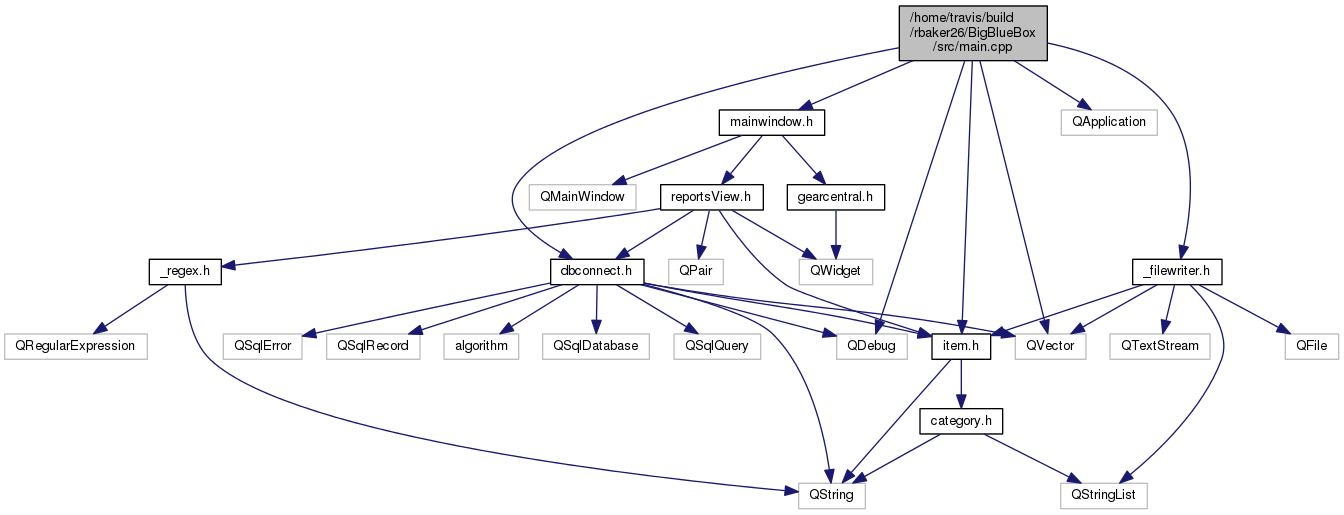
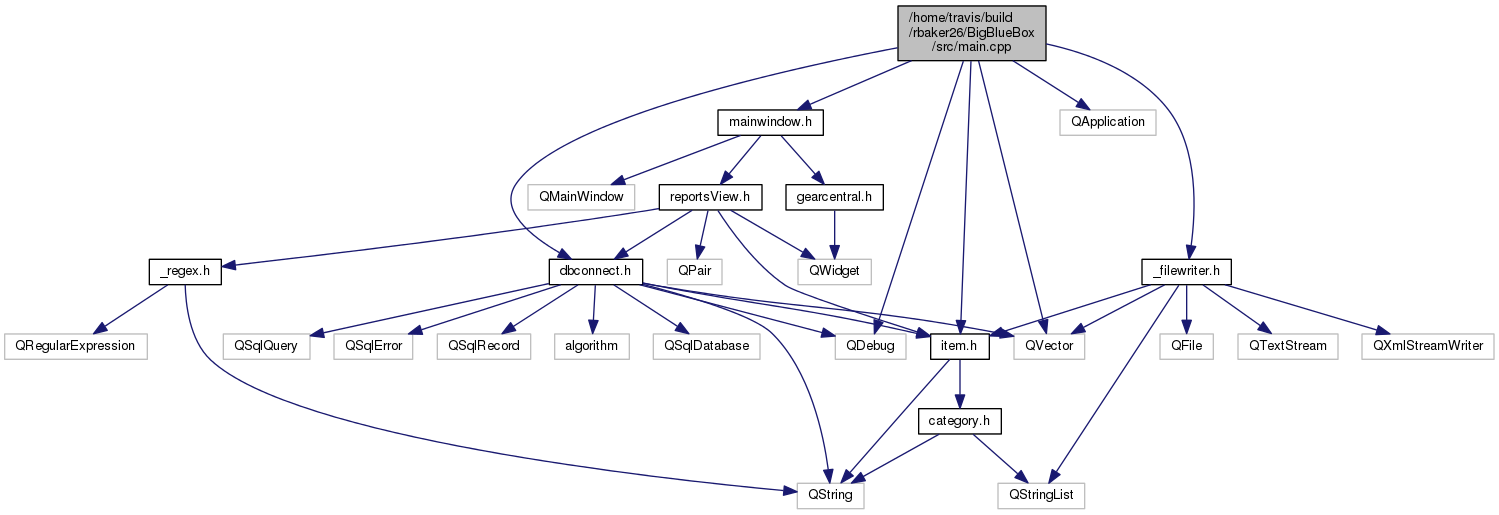
Deploy code docs to GitHub Pages Travis build: 181
Commit: 5a73ae498d2071d8c8e01dafab7c20ce1060be10

diff --git a/html/__filewriter_8h_source.html b/html/__filewriter_8h_source.html
@@ -94,51 +94,52 @@ var searchBox = new SearchBox("searchBox", "search",false,'Search');
 <div class="line"><a name="l00003"></a><span class="lineno">    3</span>&#160;<span class="preprocessor"></span><span class="comment">//*************************************************************************************</span></div>
 <div class="line"><a name="l00004"></a><span class="lineno">    4</span>&#160;<span class="preprocessor">#include &lt;QFile&gt;</span></div>
 <div class="line"><a name="l00005"></a><span class="lineno">    5</span>&#160;<span class="preprocessor">#include &lt;QTextStream&gt;</span></div>
-<div class="line"><a name="l00006"></a><span class="lineno">    6</span>&#160;</div>
-<div class="line"><a name="l00007"></a><span class="lineno">    7</span>&#160;<span class="preprocessor">#include &lt;QVector&gt;</span></div>
-<div class="line"><a name="l00008"></a><span class="lineno">    8</span>&#160;<span class="preprocessor">#include &lt;QStringList&gt;</span></div>
-<div class="line"><a name="l00009"></a><span class="lineno">    9</span>&#160;</div>
-<div class="line"><a name="l00010"></a><span class="lineno">   10</span>&#160;<span class="preprocessor">#include &quot;<a class="code" href="item_8h.html">item.h</a>&quot;</span></div>
-<div class="line"><a name="l00011"></a><span class="lineno">   11</span>&#160;<span class="comment">//*************************************************************************************</span></div>
-<div class="line"><a name="l00012"></a><span class="lineno">   12</span>&#160;</div>
+<div class="line"><a name="l00006"></a><span class="lineno">    6</span>&#160;<span class="preprocessor">#include &lt;QXmlStreamWriter&gt;</span></div>
+<div class="line"><a name="l00007"></a><span class="lineno">    7</span>&#160;</div>
+<div class="line"><a name="l00008"></a><span class="lineno">    8</span>&#160;<span class="preprocessor">#include &lt;QVector&gt;</span></div>
+<div class="line"><a name="l00009"></a><span class="lineno">    9</span>&#160;<span class="preprocessor">#include &lt;QStringList&gt;</span></div>
+<div class="line"><a name="l00010"></a><span class="lineno">   10</span>&#160;</div>
+<div class="line"><a name="l00011"></a><span class="lineno">   11</span>&#160;<span class="preprocessor">#include &quot;<a class="code" href="item_8h.html">item.h</a>&quot;</span></div>
+<div class="line"><a name="l00012"></a><span class="lineno">   12</span>&#160;<span class="comment">//*************************************************************************************</span></div>
 <div class="line"><a name="l00013"></a><span class="lineno">   13</span>&#160;</div>
-<div class="line"><a name="l00014"></a><span class="lineno"><a class="line" href="namespacebbb.html">   14</a></span>&#160;<span class="keyword">namespace </span>bbb {</div>
-<div class="line"><a name="l00015"></a><span class="lineno">   15</span>&#160;<span class="comment">//*********************************************************************************</span></div>
-<div class="line"><a name="l00021"></a><span class="lineno">   21</span>&#160;<span class="comment"></span><span class="comment">//*********************************************************************************</span></div>
-<div class="line"><a name="l00022"></a><span class="lineno"><a class="line" href="classbbb_1_1___file_writer.html">   22</a></span>&#160;<span class="keyword">class </span><a class="code" href="classbbb_1_1___file_writer.html">_FileWriter</a></div>
-<div class="line"><a name="l00023"></a><span class="lineno">   23</span>&#160;{</div>
-<div class="line"><a name="l00024"></a><span class="lineno">   24</span>&#160;<span class="keyword">private</span>:</div>
-<div class="line"><a name="l00025"></a><span class="lineno">   25</span>&#160;    <span class="comment">//**********************************************************</span></div>
-<div class="line"><a name="l00028"></a><span class="lineno">   28</span>&#160;<span class="comment"></span>    <a class="code" href="classbbb_1_1___file_writer.html#abfb28b4697018a402c6e70afe8cc0320">_FileWriter</a>();</div>
-<div class="line"><a name="l00029"></a><span class="lineno">   29</span>&#160;    <span class="comment">//**********************************************************</span></div>
-<div class="line"><a name="l00030"></a><span class="lineno">   30</span>&#160;</div>
-<div class="line"><a name="l00031"></a><span class="lineno">   31</span>&#160;    <span class="comment">//**********************************************************</span></div>
-<div class="line"><a name="l00033"></a><span class="lineno"><a class="line" href="classbbb_1_1___file_writer.html#ae08e07bb9731330e110629a64eb409e1">   33</a></span>&#160;<span class="comment"></span>    <span class="keyword">static</span> <a class="code" href="classbbb_1_1___file_writer.html">_FileWriter</a>* <a class="code" href="classbbb_1_1___file_writer.html#ae08e07bb9731330e110629a64eb409e1">instance</a>;</div>
-<div class="line"><a name="l00034"></a><span class="lineno">   34</span>&#160;    <span class="comment">//**********************************************************</span></div>
-<div class="line"><a name="l00035"></a><span class="lineno">   35</span>&#160;</div>
-<div class="line"><a name="l00036"></a><span class="lineno">   36</span>&#160;<span class="keyword">public</span>:</div>
-<div class="line"><a name="l00037"></a><span class="lineno">   37</span>&#160;    <span class="comment">//**********************************************************</span></div>
-<div class="line"><a name="l00041"></a><span class="lineno">   41</span>&#160;<span class="comment"></span>    <a class="code" href="classbbb_1_1___file_writer.html#a68306142a8735b0ab3aed6716631d639">~_FileWriter</a>();</div>
-<div class="line"><a name="l00042"></a><span class="lineno">   42</span>&#160;    <span class="comment">//**********************************************************</span></div>
-<div class="line"><a name="l00043"></a><span class="lineno">   43</span>&#160;</div>
-<div class="line"><a name="l00044"></a><span class="lineno">   44</span>&#160;    <span class="comment">//**********************************************************</span></div>
-<div class="line"><a name="l00048"></a><span class="lineno">   48</span>&#160;<span class="comment"></span>    <span class="keyword">static</span> <a class="code" href="classbbb_1_1___file_writer.html">_FileWriter</a>* <a class="code" href="classbbb_1_1___file_writer.html#a65f1d3f6b273766d8b224b330de66ffa">getInstance</a>();</div>
-<div class="line"><a name="l00049"></a><span class="lineno">   49</span>&#160;    <span class="comment">//**********************************************************</span></div>
-<div class="line"><a name="l00050"></a><span class="lineno">   50</span>&#160;</div>
-<div class="line"><a name="l00051"></a><span class="lineno">   51</span>&#160;    <span class="comment">//**********************************************************</span></div>
-<div class="line"><a name="l00056"></a><span class="lineno">   56</span>&#160;<span class="comment"></span>    <span class="comment">// every option should also have a output to .csv option as well</span></div>
-<div class="line"><a name="l00057"></a><span class="lineno">   57</span>&#160;    <span class="comment">// can be controled via combo box dropdown in reports veiw.</span></div>
-<div class="line"><a name="l00058"></a><span class="lineno">   58</span>&#160;     <span class="keywordtype">void</span> <a class="code" href="classbbb_1_1___file_writer.html#acee5ce66444735f37990f57afbfe1452">makeReport</a>(QVector&lt;Item&gt; inventory);</div>
-<div class="line"><a name="l00059"></a><span class="lineno">   59</span>&#160;     <span class="comment">//**********************************************************</span></div>
-<div class="line"><a name="l00060"></a><span class="lineno">   60</span>&#160;</div>
-<div class="line"><a name="l00061"></a><span class="lineno">   61</span>&#160;}; <span class="comment">// end class</span></div>
-<div class="line"><a name="l00062"></a><span class="lineno">   62</span>&#160;<span class="comment">//*********************************************************************************</span></div>
-<div class="line"><a name="l00063"></a><span class="lineno">   63</span>&#160;} <span class="comment">// end namespace</span></div>
-<div class="line"><a name="l00064"></a><span class="lineno">   64</span>&#160;</div>
+<div class="line"><a name="l00014"></a><span class="lineno">   14</span>&#160;</div>
+<div class="line"><a name="l00015"></a><span class="lineno"><a class="line" href="namespacebbb.html">   15</a></span>&#160;<span class="keyword">namespace </span>bbb {</div>
+<div class="line"><a name="l00016"></a><span class="lineno">   16</span>&#160;<span class="comment">//*********************************************************************************</span></div>
+<div class="line"><a name="l00022"></a><span class="lineno">   22</span>&#160;<span class="comment"></span><span class="comment">//*********************************************************************************</span></div>
+<div class="line"><a name="l00023"></a><span class="lineno"><a class="line" href="classbbb_1_1___file_writer.html">   23</a></span>&#160;<span class="keyword">class </span><a class="code" href="classbbb_1_1___file_writer.html">_FileWriter</a></div>
+<div class="line"><a name="l00024"></a><span class="lineno">   24</span>&#160;{</div>
+<div class="line"><a name="l00025"></a><span class="lineno">   25</span>&#160;<span class="keyword">private</span>:</div>
+<div class="line"><a name="l00026"></a><span class="lineno">   26</span>&#160;    <span class="comment">//**********************************************************</span></div>
+<div class="line"><a name="l00029"></a><span class="lineno">   29</span>&#160;<span class="comment"></span>    <a class="code" href="classbbb_1_1___file_writer.html#abfb28b4697018a402c6e70afe8cc0320">_FileWriter</a>();</div>
+<div class="line"><a name="l00030"></a><span class="lineno">   30</span>&#160;    <span class="comment">//**********************************************************</span></div>
+<div class="line"><a name="l00031"></a><span class="lineno">   31</span>&#160;</div>
+<div class="line"><a name="l00032"></a><span class="lineno">   32</span>&#160;    <span class="comment">//**********************************************************</span></div>
+<div class="line"><a name="l00034"></a><span class="lineno"><a class="line" href="classbbb_1_1___file_writer.html#ae08e07bb9731330e110629a64eb409e1">   34</a></span>&#160;<span class="comment"></span>    <span class="keyword">static</span> <a class="code" href="classbbb_1_1___file_writer.html">_FileWriter</a>* <a class="code" href="classbbb_1_1___file_writer.html#ae08e07bb9731330e110629a64eb409e1">instance</a>;</div>
+<div class="line"><a name="l00035"></a><span class="lineno">   35</span>&#160;    <span class="comment">//**********************************************************</span></div>
+<div class="line"><a name="l00036"></a><span class="lineno">   36</span>&#160;</div>
+<div class="line"><a name="l00037"></a><span class="lineno">   37</span>&#160;<span class="keyword">public</span>:</div>
+<div class="line"><a name="l00038"></a><span class="lineno">   38</span>&#160;    <span class="comment">//**********************************************************</span></div>
+<div class="line"><a name="l00042"></a><span class="lineno">   42</span>&#160;<span class="comment"></span>    <a class="code" href="classbbb_1_1___file_writer.html#a68306142a8735b0ab3aed6716631d639">~_FileWriter</a>();</div>
+<div class="line"><a name="l00043"></a><span class="lineno">   43</span>&#160;    <span class="comment">//**********************************************************</span></div>
+<div class="line"><a name="l00044"></a><span class="lineno">   44</span>&#160;</div>
+<div class="line"><a name="l00045"></a><span class="lineno">   45</span>&#160;    <span class="comment">//**********************************************************</span></div>
+<div class="line"><a name="l00049"></a><span class="lineno">   49</span>&#160;<span class="comment"></span>    <span class="keyword">static</span> <a class="code" href="classbbb_1_1___file_writer.html">_FileWriter</a>* <a class="code" href="classbbb_1_1___file_writer.html#a65f1d3f6b273766d8b224b330de66ffa">getInstance</a>();</div>
+<div class="line"><a name="l00050"></a><span class="lineno">   50</span>&#160;    <span class="comment">//**********************************************************</span></div>
+<div class="line"><a name="l00051"></a><span class="lineno">   51</span>&#160;</div>
+<div class="line"><a name="l00052"></a><span class="lineno">   52</span>&#160;    <span class="comment">//**********************************************************</span></div>
+<div class="line"><a name="l00057"></a><span class="lineno">   57</span>&#160;<span class="comment"></span>    <span class="comment">// every option should also have a output to .csv option as well</span></div>
+<div class="line"><a name="l00058"></a><span class="lineno">   58</span>&#160;    <span class="comment">// can be controled via combo box dropdown in reports veiw.</span></div>
+<div class="line"><a name="l00059"></a><span class="lineno">   59</span>&#160;     <span class="keywordtype">void</span> <a class="code" href="classbbb_1_1___file_writer.html#acee5ce66444735f37990f57afbfe1452">makeReport</a>(QVector&lt;Item&gt; inventory);</div>
+<div class="line"><a name="l00060"></a><span class="lineno">   60</span>&#160;     <span class="comment">//**********************************************************</span></div>
+<div class="line"><a name="l00061"></a><span class="lineno">   61</span>&#160;</div>
+<div class="line"><a name="l00062"></a><span class="lineno">   62</span>&#160;}; <span class="comment">// end class</span></div>
+<div class="line"><a name="l00063"></a><span class="lineno">   63</span>&#160;<span class="comment">//*********************************************************************************</span></div>
+<div class="line"><a name="l00064"></a><span class="lineno">   64</span>&#160;} <span class="comment">// end namespace</span></div>
 <div class="line"><a name="l00065"></a><span class="lineno">   65</span>&#160;</div>
-<div class="line"><a name="l00066"></a><span class="lineno">   66</span>&#160;<span class="preprocessor">#endif // _FILEWRITER_H</span></div>
-<div class="ttc" id="classbbb_1_1___file_writer_html_ae08e07bb9731330e110629a64eb409e1"><div class="ttname"><a href="classbbb_1_1___file_writer.html#ae08e07bb9731330e110629a64eb409e1">bbb::_FileWriter::instance</a></div><div class="ttdeci">static _FileWriter * instance</div><div class="ttdoc">Singleton Pointer. </div><div class="ttdef"><b>Definition:</b> _filewriter.h:33</div></div>
-<div class="ttc" id="classbbb_1_1___file_writer_html"><div class="ttname"><a href="classbbb_1_1___file_writer.html">bbb::_FileWriter</a></div><div class="ttdoc">Output File Stream Handler : Singleton. </div><div class="ttdef"><b>Definition:</b> _filewriter.h:22</div></div>
+<div class="line"><a name="l00066"></a><span class="lineno">   66</span>&#160;</div>
+<div class="line"><a name="l00067"></a><span class="lineno">   67</span>&#160;<span class="preprocessor">#endif // _FILEWRITER_H</span></div>
+<div class="ttc" id="classbbb_1_1___file_writer_html_ae08e07bb9731330e110629a64eb409e1"><div class="ttname"><a href="classbbb_1_1___file_writer.html#ae08e07bb9731330e110629a64eb409e1">bbb::_FileWriter::instance</a></div><div class="ttdeci">static _FileWriter * instance</div><div class="ttdoc">Singleton Pointer. </div><div class="ttdef"><b>Definition:</b> _filewriter.h:34</div></div>
+<div class="ttc" id="classbbb_1_1___file_writer_html"><div class="ttname"><a href="classbbb_1_1___file_writer.html">bbb::_FileWriter</a></div><div class="ttdoc">Output File Stream Handler : Singleton. </div><div class="ttdef"><b>Definition:</b> _filewriter.h:23</div></div>
 <div class="ttc" id="classbbb_1_1___file_writer_html_a68306142a8735b0ab3aed6716631d639"><div class="ttname"><a href="classbbb_1_1___file_writer.html#a68306142a8735b0ab3aed6716631d639">bbb::_FileWriter::~_FileWriter</a></div><div class="ttdeci">~_FileWriter()</div><div class="ttdoc">Default non-args de-constructor. </div><div class="ttdef"><b>Definition:</b> _filewriter.cpp:18</div></div>
 <div class="ttc" id="classbbb_1_1___file_writer_html_acee5ce66444735f37990f57afbfe1452"><div class="ttname"><a href="classbbb_1_1___file_writer.html#acee5ce66444735f37990f57afbfe1452">bbb::_FileWriter::makeReport</a></div><div class="ttdeci">void makeReport(QVector&lt; Item &gt; inventory)</div><div class="ttdoc">Writes a Inventory Report. </div><div class="ttdef"><b>Definition:</b> _filewriter.cpp:37</div></div>
 <div class="ttc" id="classbbb_1_1___file_writer_html_abfb28b4697018a402c6e70afe8cc0320"><div class="ttname"><a href="classbbb_1_1___file_writer.html#abfb28b4697018a402c6e70afe8cc0320">bbb::_FileWriter::_FileWriter</a></div><div class="ttdeci">_FileWriter()</div><div class="ttdoc">Default no-args constructor. </div><div class="ttdef"><b>Definition:</b> _filewriter.cpp:11</div></div>

diff --git a/html/hierarchy.html b/html/hierarchy.html
@@ -102,7 +102,7 @@ This inheritance list is sorted roughly, but not completely, alphabetically:</di
 <tr id="row_6_" class="even"><td class="entry"><img id="arr_6_" src="ftv2mnode.png" alt="o" width="16" height="22" onclick="toggleFolder('6_')"/><img src="ftv2cl.png" alt="C" width="24" height="22" /><b>QObject</b></td><td class="desc"></td></tr>
 <tr id="row_6_0_"><td class="entry"><img src="ftv2vertline.png" alt="|" width="16" height="22" /><img src="ftv2node.png" alt="o" width="16" height="22" /><img src="ftv2cl.png" alt="C" width="24" height="22" /><a class="el" href="classbbb_test_1_1___regex_test.html" target="_self">bbbTest::_RegexTest</a></td><td class="desc"></td></tr>
 <tr id="row_6_1_" class="even"><td class="entry"><img src="ftv2vertline.png" alt="|" width="16" height="22" /><img src="ftv2node.png" alt="o" width="16" height="22" /><img src="ftv2cl.png" alt="C" width="24" height="22" /><a class="el" href="classbbb_test_1_1_category_test.html" target="_self">bbbTest::CategoryTest</a></td><td class="desc"></td></tr>
-<tr id="row_6_2_"><td class="entry"><img src="ftv2vertline.png" alt="|" width="16" height="22" /><img src="ftv2lastnode.png" alt="\" width="16" height="22" /><img src="ftv2cl.png" alt="C" width="24" height="22" /><a class="el" href="classbbb_test_1_1_unit_test.html" target="_self">bbbTest::UnitTest</a></td><td class="desc">Starts the regression an unit testing </td></tr>
+<tr id="row_6_2_"><td class="entry"><img src="ftv2vertline.png" alt="|" width="16" height="22" /><img src="ftv2lastnode.png" alt="\" width="16" height="22" /><img src="ftv2cl.png" alt="C" width="24" height="22" /><a class="el" href="classbbb_test_1_1_unit_test.html" target="_self">bbbTest::UnitTest</a></td><td class="desc">Starts the regression and unit testing </td></tr>
 <tr id="row_7_" class="even"><td class="entry"><img id="arr_7_" src="ftv2mnode.png" alt="o" width="16" height="22" onclick="toggleFolder('7_')"/><img src="ftv2cl.png" alt="C" width="24" height="22" /><b>QWidget</b></td><td class="desc"></td></tr>
 <tr id="row_7_0_"><td class="entry"><img src="ftv2vertline.png" alt="|" width="16" height="22" /><img src="ftv2node.png" alt="o" width="16" height="22" /><img src="ftv2cl.png" alt="C" width="24" height="22" /><a class="el" href="class_gear_central.html" target="_self">GearCentral</a></td><td class="desc"></td></tr>
 <tr id="row_7_1_" class="even"><td class="entry"><img src="ftv2vertline.png" alt="|" width="16" height="22" /><img src="ftv2lastnode.png" alt="\" width="16" height="22" /><img src="ftv2cl.png" alt="C" width="24" height="22" /><a class="el" href="class_reports_view.html" target="_self">ReportsView</a></td><td class="desc"></td></tr>

diff --git a/html/annotated.html b/html/annotated.html
@@ -100,7 +100,7 @@ var searchBox = new SearchBox("searchBox", "search",false,'Search');
 <tr id="row_1_" class="even"><td class="entry"><img id="arr_1_" src="ftv2mnode.png" alt="o" width="16" height="22" onclick="toggleFolder('1_')"/><img src="ftv2ns.png" alt="N" width="24" height="22" /><a class="el" href="namespacebbb_test.html" target="_self">bbbTest</a></td><td class="desc"></td></tr>
 <tr id="row_1_0_"><td class="entry"><img src="ftv2vertline.png" alt="|" width="16" height="22" /><img src="ftv2node.png" alt="o" width="16" height="22" /><img src="ftv2cl.png" alt="C" width="24" height="22" /><a class="el" href="classbbb_test_1_1___regex_test.html" target="_self">_RegexTest</a></td><td class="desc"></td></tr>
 <tr id="row_1_1_" class="even"><td class="entry"><img src="ftv2vertline.png" alt="|" width="16" height="22" /><img src="ftv2node.png" alt="o" width="16" height="22" /><img src="ftv2cl.png" alt="C" width="24" height="22" /><a class="el" href="classbbb_test_1_1_category_test.html" target="_self">CategoryTest</a></td><td class="desc"></td></tr>
-<tr id="row_1_2_"><td class="entry"><img src="ftv2vertline.png" alt="|" width="16" height="22" /><img src="ftv2lastnode.png" alt="\" width="16" height="22" /><img src="ftv2cl.png" alt="C" width="24" height="22" /><a class="el" href="classbbb_test_1_1_unit_test.html" target="_self">UnitTest</a></td><td class="desc">Starts the regression an unit testing </td></tr>
+<tr id="row_1_2_"><td class="entry"><img src="ftv2vertline.png" alt="|" width="16" height="22" /><img src="ftv2lastnode.png" alt="\" width="16" height="22" /><img src="ftv2cl.png" alt="C" width="24" height="22" /><a class="el" href="classbbb_test_1_1_unit_test.html" target="_self">UnitTest</a></td><td class="desc">Starts the regression and unit testing </td></tr>
 <tr id="row_2_" class="even"><td class="entry"><img src="ftv2node.png" alt="o" width="16" height="22" /><img src="ftv2ns.png" alt="N" width="24" height="22" /><a class="el" href="namespace_ui.html" target="_self">Ui</a></td><td class="desc"></td></tr>
 <tr id="row_3_"><td class="entry"><img src="ftv2node.png" alt="o" width="16" height="22" /><img src="ftv2cl.png" alt="C" width="24" height="22" /><a class="el" href="class_gear_central.html" target="_self">GearCentral</a></td><td class="desc"></td></tr>
 <tr id="row_4_" class="even"><td class="entry"><img src="ftv2node.png" alt="o" width="16" height="22" /><img src="ftv2cl.png" alt="C" width="24" height="22" /><a class="el" href="class_main_window.html" target="_self">MainWindow</a></td><td class="desc"></td></tr>

diff --git a/html/main_8cpp.html b/html/main_8cpp.html
@@ -103,7 +103,7 @@ Include dependency graph for main.cpp:</div>
 <div class="dyncontent">
 <div class="center"><img src="main_8cpp__incl.png" border="0" usemap="#_2home_2travis_2build_2rbaker26_2_big_blue_box_2src_2main_8cpp" alt=""/></div>
 <map name="_2home_2travis_2build_2rbaker26_2_big_blue_box_2src_2main_8cpp" id="_2home_2travis_2build_2rbaker26_2_big_blue_box_2src_2main_8cpp">
-<area shape="rect" id="node2" href="mainwindow_8h.html" title="mainwindow.h" alt="" coords="719,109,824,136"/><area shape="rect" id="node8" href="dbconnect_8h.html" title="dbconnect.h" alt="" coords="551,259,644,285"/><area shape="rect" id="node17" href="item_8h.html" title="item.h" alt="" coords="932,333,989,360"/><area shape="rect" id="node23" href="__filewriter_8h.html" title="_filewriter.h" alt="" coords="1133,259,1221,285"/><area shape="rect" id="node4" href="gearcentral_8h.html" title="gearcentral.h" alt="" coords="787,184,884,211"/><area shape="rect" id="node6" href="reports_view_8h.html" title="reportsView.h" alt="" coords="661,184,763,211"/><area shape="rect" id="node20" href="__regex_8h.html" title="_regex.h" alt="" coords="149,259,221,285"/><area shape="rect" id="node18" href="category_8h.html" title="category.h" alt="" coords="920,408,1001,435"/></map>
+<area shape="rect" id="node2" href="mainwindow_8h.html" title="mainwindow.h" alt="" coords="718,109,823,136"/><area shape="rect" id="node8" href="dbconnect_8h.html" title="dbconnect.h" alt="" coords="549,259,643,285"/><area shape="rect" id="node17" href="item_8h.html" title="item.h" alt="" coords="931,333,988,360"/><area shape="rect" id="node23" href="__filewriter_8h.html" title="_filewriter.h" alt="" coords="1142,259,1231,285"/><area shape="rect" id="node4" href="gearcentral_8h.html" title="gearcentral.h" alt="" coords="786,184,883,211"/><area shape="rect" id="node6" href="reports_view_8h.html" title="reportsView.h" alt="" coords="659,184,761,211"/><area shape="rect" id="node20" href="__regex_8h.html" title="_regex.h" alt="" coords="149,259,221,285"/><area shape="rect" id="node18" href="category_8h.html" title="category.h" alt="" coords="919,408,1000,435"/></map>
 </div>
 </div><table class="memberdecls">
 <tr class="heading"><td colspan="2"><h2 class="groupheader"><a name="func-members"></a>

diff --git a/html/unittest_8h_source.html b/html/unittest_8h_source.html
@@ -127,7 +127,7 @@ var searchBox = new SearchBox("searchBox", "search",false,'Search');
 <div class="line"><a name="l00047"></a><span class="lineno">   47</span>&#160;</div>
 <div class="line"><a name="l00048"></a><span class="lineno">   48</span>&#160;} <span class="comment">// end namespace</span></div>
 <div class="line"><a name="l00049"></a><span class="lineno">   49</span>&#160;<span class="preprocessor">#endif // UNITTEST_H</span></div>
-<div class="ttc" id="classbbb_test_1_1_unit_test_html"><div class="ttname"><a href="classbbb_test_1_1_unit_test.html">bbbTest::UnitTest</a></div><div class="ttdoc">Starts the regression an unit testing. </div><div class="ttdef"><b>Definition:</b> unittest.h:28</div></div>
+<div class="ttc" id="classbbb_test_1_1_unit_test_html"><div class="ttname"><a href="classbbb_test_1_1_unit_test.html">bbbTest::UnitTest</a></div><div class="ttdoc">Starts the regression and unit testing. </div><div class="ttdef"><b>Definition:</b> unittest.h:28</div></div>
 <div class="ttc" id="classbbb_test_1_1_unit_test_html_a67ddaff817b55a624741d32550052f4b"><div class="ttname"><a href="classbbb_test_1_1_unit_test.html#a67ddaff817b55a624741d32550052f4b">bbbTest::UnitTest::UnitTest</a></div><div class="ttdeci">UnitTest()</div><div class="ttdoc">Constructor. </div><div class="ttdef"><b>Definition:</b> unittest.cpp:5</div></div>
 <div class="ttc" id="__regextest_8h_html"><div class="ttname"><a href="__regextest_8h.html">_regextest.h</a></div></div>
 <div class="ttc" id="classbbb_test_1_1_unit_test_html_ab007b0ca0f5cf3f165305e71d67b20c0"><div class="ttname"><a href="classbbb_test_1_1_unit_test.html#ab007b0ca0f5cf3f165305e71d67b20c0">bbbTest::UnitTest::run</a></div><div class="ttdeci">static void run()</div><div class="ttdoc">Static fx, calls all unit test objects and executes them. </div><div class="ttdef"><b>Definition:</b> unittest.cpp:7</div></div>

diff --git a/html/qrc__rec_8cpp.html b/html/qrc__rec_8cpp.html
@@ -308,14 +308,14 @@ Here is the caller graph for this function:</div>
 <div class="line">  0x0,0x6d,0x0,0x67,</div>
 <div class="line">    </div>
 <div class="line">  0x0,0xc,</div>
-<div class="line">  0x8,0xa1,0x20,0x87,</div>
-<div class="line">  0x0,0x6e,</div>
-<div class="line">  0x0,0x79,0x0,0x6c,0x0,0x74,0x0,0x49,0x0,0x63,0x0,0x6f,0x0,0x6e,0x0,0x2e,0x0,0x6a,0x0,0x70,0x0,0x67,</div>
-<div class="line">    </div>
-<div class="line">  0x0,0xc,</div>
 <div class="line">  0x8,0xa1,0x26,0xa7,</div>
 <div class="line">  0x0,0x6e,</div>
 <div class="line">  0x0,0x79,0x0,0x6c,0x0,0x74,0x0,0x49,0x0,0x63,0x0,0x6f,0x0,0x6e,0x0,0x2e,0x0,0x70,0x0,0x6e,0x0,0x67,</div>
+<div class="line">    </div>
+<div class="line">  0x0,0xc,</div>
+<div class="line">  0x8,0xa1,0x20,0x87,</div>
+<div class="line">  0x0,0x6e,</div>
+<div class="line">  0x0,0x79,0x0,0x6c,0x0,0x74,0x0,0x49,0x0,0x63,0x0,0x6f,0x0,0x6e,0x0,0x2e,0x0,0x6a,0x0,0x70,0x0,0x67,</div>
 <div class="line">  </div>
 <div class="line">}</div>
 </div><!-- fragment -->
@@ -344,9 +344,9 @@ Here is the caller graph for this function:</div>
 <div class="line">  </div>
 <div class="line">  0x0,0x0,0x0,0x0,0x0,0x2,0x0,0x0,0x0,0x2,0x0,0x0,0x0,0x2,</div>
 <div class="line">  </div>
-<div class="line">  0x0,0x0,0x0,0xc,0x0,0x0,0x0,0x0,0x0,0x1,0x0,0x0,0x0,0x0,</div>
+<div class="line">  0x0,0x0,0x0,0x2a,0x0,0x0,0x0,0x0,0x0,0x1,0x0,0x7,0x20,0x51,</div>
 <div class="line">  </div>
-<div class="line">  0x0,0x0,0x0,0x2a,0x0,0x0,0x0,0x0,0x0,0x1,0x0,0x1,0x46,0x39,</div>
+<div class="line">  0x0,0x0,0x0,0xc,0x0,0x0,0x0,0x0,0x0,0x1,0x0,0x0,0x0,0x0,</div>
 <div class="line"></div>
 <div class="line">}</div>
 </div><!-- fragment -->

diff --git a/html/__filewriter_8h.html b/html/__filewriter_8h.html
@@ -94,6 +94,7 @@ var searchBox = new SearchBox("searchBox", "search",false,'Search');
 <div class="contents">
 <div class="textblock"><code>#include &lt;QFile&gt;</code><br/>
 <code>#include &lt;QTextStream&gt;</code><br/>
+<code>#include &lt;QXmlStreamWriter&gt;</code><br/>
 <code>#include &lt;QVector&gt;</code><br/>
 <code>#include &lt;QStringList&gt;</code><br/>
 <code>#include &quot;<a class="el" href="item_8h_source.html">item.h</a>&quot;</code><br/>
@@ -102,7 +103,7 @@ Include dependency graph for _filewriter.h:</div>
 <div class="dyncontent">
 <div class="center"><img src="__filewriter_8h__incl.png" border="0" usemap="#_2home_2travis_2build_2rbaker26_2_big_blue_box_2src_2__filewriter_8h" alt=""/></div>
 <map name="_2home_2travis_2build_2rbaker26_2_big_blue_box_2src_2__filewriter_8h" id="_2home_2travis_2build_2rbaker26_2_big_blue_box_2src_2__filewriter_8h">
-<area shape="rect" id="node6" href="item_8h.html" title="item.h" alt="" coords="365,109,423,136"/><area shape="rect" id="node8" href="category_8h.html" title="category.h" alt="" coords="353,184,435,211"/></map>
+<area shape="rect" id="node7" href="item_8h.html" title="item.h" alt="" coords="521,109,579,136"/><area shape="rect" id="node9" href="category_8h.html" title="category.h" alt="" coords="509,184,591,211"/></map>
 </div>
 </div><div class="textblock"><div class="dynheader">
 This graph shows which files directly or indirectly include this file:</div>

diff --git a/html/inherits.html b/html/inherits.html
@@ -116,7 +116,7 @@ var searchBox = new SearchBox("searchBox", "search",false,'Search');
 </td></tr>
 <tr><td><img src="inherit_graph_6.png" border="0" alt="" usemap="#bbb_test_1_1___regex_test"/>
 <map name="bbb_test_1_1___regex_test" id="bbb_test_1_1___regex_test">
-<area shape="rect" id="node2" href="classbbb_test_1_1___regex_test.html" title="bbbTest::_RegexTest" alt="" coords="130,5,278,32"/><area shape="rect" id="node3" href="classbbb_test_1_1_category_test.html" title="bbbTest::CategoryTest" alt="" coords="126,56,282,83"/><area shape="rect" id="node4" href="classbbb_test_1_1_unit_test.html" title="Starts the regression an unit testing. " alt="" coords="141,107,267,133"/></map>
+<area shape="rect" id="node2" href="classbbb_test_1_1___regex_test.html" title="bbbTest::_RegexTest" alt="" coords="130,5,278,32"/><area shape="rect" id="node3" href="classbbb_test_1_1_category_test.html" title="bbbTest::CategoryTest" alt="" coords="126,56,282,83"/><area shape="rect" id="node4" href="classbbb_test_1_1_unit_test.html" title="Starts the regression and unit testing. " alt="" coords="141,107,267,133"/></map>
 </td></tr>
 <tr><td><img src="inherit_graph_7.png" border="0" alt="" usemap="#_gear_central"/>
 <map name="_gear_central" id="_gear_central">

diff --git a/html/__filewriter_8cpp.html b/html/__filewriter_8cpp.html
@@ -95,7 +95,7 @@ Include dependency graph for _filewriter.cpp:</div>
 <div class="dyncontent">
 <div class="center"><img src="__filewriter_8cpp__incl.png" border="0" usemap="#_2home_2travis_2build_2rbaker26_2_big_blue_box_2src_2__filewriter_8cpp" alt=""/></div>
 <map name="_2home_2travis_2build_2rbaker26_2_big_blue_box_2src_2__filewriter_8cpp" id="_2home_2travis_2build_2rbaker26_2_big_blue_box_2src_2__filewriter_8cpp">
-<area shape="rect" id="node2" href="__filewriter_8h.html" title="_filewriter.h" alt="" coords="198,109,287,136"/><area shape="rect" id="node7" href="item_8h.html" title="item.h" alt="" coords="365,184,423,211"/><area shape="rect" id="node9" href="category_8h.html" title="category.h" alt="" coords="353,259,435,285"/></map>
+<area shape="rect" id="node2" href="__filewriter_8h.html" title="_filewriter.h" alt="" coords="291,109,380,136"/><area shape="rect" id="node8" href="item_8h.html" title="item.h" alt="" coords="521,184,579,211"/><area shape="rect" id="node10" href="category_8h.html" title="category.h" alt="" coords="509,259,591,285"/></map>
 </div>
 </div></div><!-- contents -->
 <!-- start footer part -->

diff --git a/html/classbbb_test_1_1_unit_test.html b/html/classbbb_test_1_1_unit_test.html
@@ -96,7 +96,7 @@ var searchBox = new SearchBox("searchBox", "search",false,'Search');
 </div><!--header-->
 <div class="contents">
 
-<p>Starts the regression an unit testing.  
+<p>Starts the regression and unit testing.  
  <a href="classbbb_test_1_1_unit_test.html#details">More...</a></p>
 
 <p><code>#include &lt;<a class="el" href="unittest_8h_source.html">unittest.h</a>&gt;</code></p>
@@ -128,7 +128,7 @@ Static Public Member Functions</h2></td></tr>
 <tr class="separator:ab007b0ca0f5cf3f165305e71d67b20c0"><td class="memSeparator" colspan="2">&#160;</td></tr>
 </table>
 <a name="details" id="details"></a><h2 class="groupheader">Detailed Description</h2>
-<div class="textblock"><p>Starts the regression an unit testing. </p>
+<div class="textblock"><p>Starts the regression and unit testing. </p>
 <p>This file is only on included in test builds. It will not be complied debug or release builds. It will be used by travis.ci to run unit tests. </p>
 <dl class="section author"><dt>Author</dt><dd>Bob Baker </dd></dl>
 </div><h2 class="groupheader">Constructor &amp; Destructor Documentation</h2>

diff --git a/html/namespacebbb_test.html b/html/namespacebbb_test.html
@@ -94,7 +94,7 @@ Classes</h2></td></tr>
 <tr class="memitem:"><td class="memItemLeft" align="right" valign="top">class &#160;</td><td class="memItemRight" valign="bottom"><a class="el" href="classbbb_test_1_1_category_test.html">CategoryTest</a></td></tr>
 <tr class="separator:"><td class="memSeparator" colspan="2">&#160;</td></tr>
 <tr class="memitem:"><td class="memItemLeft" align="right" valign="top">class &#160;</td><td class="memItemRight" valign="bottom"><a class="el" href="classbbb_test_1_1_unit_test.html">UnitTest</a></td></tr>
-<tr class="memdesc:"><td class="mdescLeft">&#160;</td><td class="mdescRight">Starts the regression an unit testing.  <a href="classbbb_test_1_1_unit_test.html#details">More...</a><br/></td></tr>
+<tr class="memdesc:"><td class="mdescLeft">&#160;</td><td class="mdescRight">Starts the regression and unit testing.  <a href="classbbb_test_1_1_unit_test.html#details">More...</a><br/></td></tr>
 <tr class="separator:"><td class="memSeparator" colspan="2">&#160;</td></tr>
 </table>
 </div><!-- contents -->

diff --git a/html/unittest_8h.html b/html/unittest_8h.html
@@ -117,7 +117,7 @@ This graph shows which files directly or indirectly include this file:</div>
 <tr class="heading"><td colspan="2"><h2 class="groupheader"><a name="nested-classes"></a>
 Classes</h2></td></tr>
 <tr class="memitem:"><td class="memItemLeft" align="right" valign="top">class &#160;</td><td class="memItemRight" valign="bottom"><a class="el" href="classbbb_test_1_1_unit_test.html">bbbTest::UnitTest</a></td></tr>
-<tr class="memdesc:"><td class="mdescLeft">&#160;</td><td class="mdescRight">Starts the regression an unit testing.  <a href="classbbb_test_1_1_unit_test.html#details">More...</a><br/></td></tr>
+<tr class="memdesc:"><td class="mdescLeft">&#160;</td><td class="mdescRight">Starts the regression and unit testing.  <a href="classbbb_test_1_1_unit_test.html#details">More...</a><br/></td></tr>
 <tr class="separator:"><td class="memSeparator" colspan="2">&#160;</td></tr>
 </table><table class="memberdecls">
 <tr class="heading"><td colspan="2"><h2 class="groupheader"><a name="namespaces"></a>
